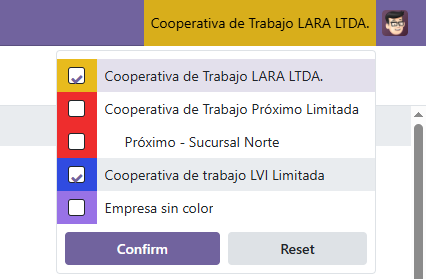
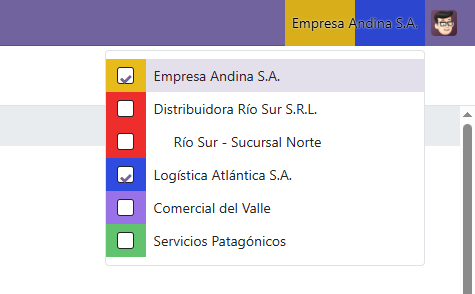
[FIX] web_company_switcher_color: README screenshots with fictitious data, no overlap
- Replace both screenshots with ones taken on demo companies with
  fictitious names (the previous ones showed real customer data).
- The new stripes screenshot no longer shows the fixed edge artifact.
- Apps description: drop the oe_demo/oe_screenshot classes that stacked
  the images on top of each other and scaled them over the text; use
  plain centered images capped at 480px with a caption each.

diff --git a/web_company_switcher_color/static/description/index.html b/web_company_switcher_color/static/description/index.html
@@ -24,11 +24,15 @@
                     and every row of the dropdown shows a solid block of
                     its company's color.
                 </p>
-                <div class="oe_demo oe_picture oe_screenshot">
-                    <img src="switcher_menu.png" alt="Company switcher dropdown with a color block per company"/>
+                <div style="margin-top: 24px; text-align: center;">
+                    <img src="switcher_menu.png" alt="Company switcher dropdown with a color block per company"
+                         style="display: block; margin: 0 auto; max-width: 480px; width: 100%; height: auto; border: 1px solid #ddd;"/>
+                    <p style="font-style: italic; margin-top: 8px;">Dropdown: one color block per company, selected or not.</p>
                 </div>
-                <div class="oe_demo oe_picture oe_screenshot">
-                    <img src="switcher_stripes.png" alt="Systray button striped with two selected companies"/>
+                <div style="margin-top: 24px; text-align: center;">
+                    <img src="switcher_stripes.png" alt="Systray button striped with two selected companies"
+                         style="display: block; margin: 0 auto; max-width: 480px; width: 100%; height: auto; border: 1px solid #ddd;"/>
+                    <p style="font-style: italic; margin-top: 8px;">Two companies selected: one stripe per company, current company first.</p>
                 </div>
             </div>
         </div>
